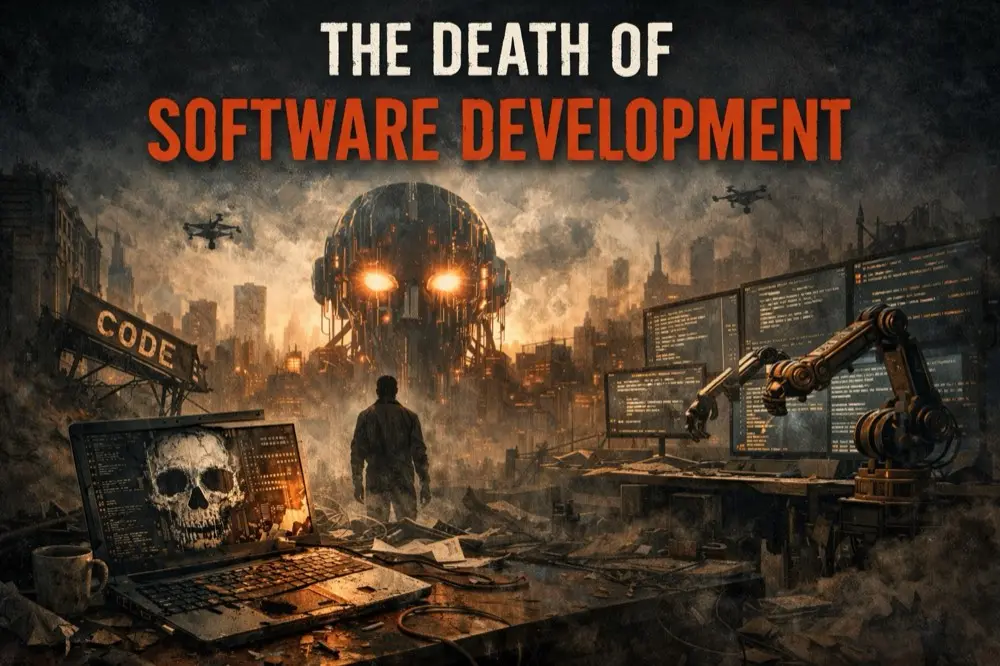
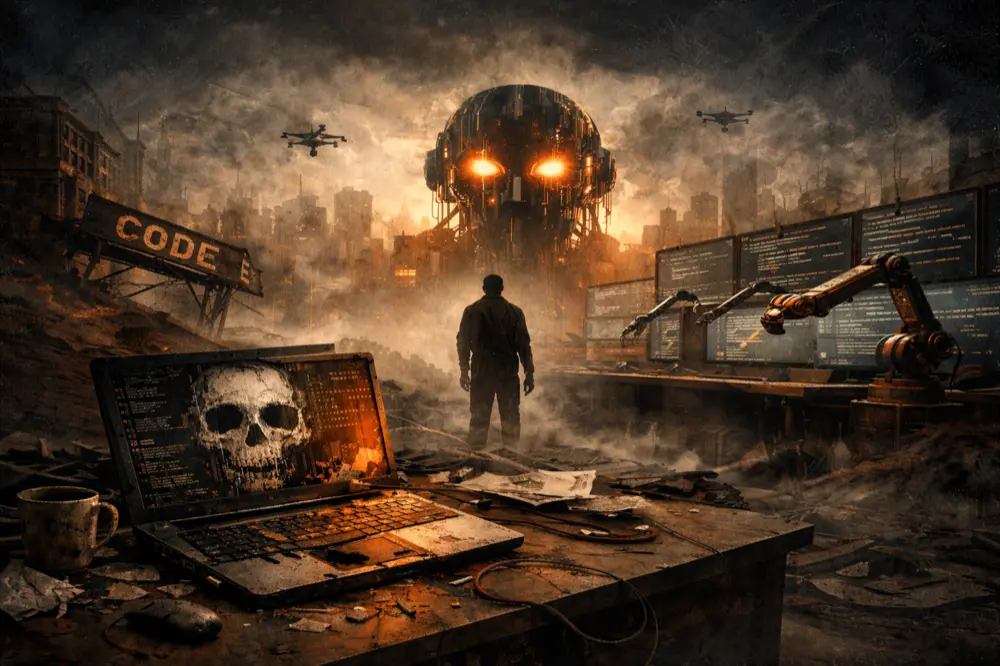
Add OG image generation for social sharing
- Add sharp dependency for image processing
- Create OG image generator using hero image + title overlay
- Add static endpoint to generate OG images at build time
- Add OG and Twitter meta tags to Layout
- Update blog post page to pass OG image URL
- Replace hero image with new optimized version (70KB)

diff --git a/src/utils/og-image.ts b/src/utils/og-image.ts
@@ -1,0 +1,137 @@
+import sharp from 'sharp';
+import { readFile } from 'fs/promises';
+import { join } from 'path';
+
+const OG_WIDTH = 1200;
+const OG_HEIGHT = 630;
+
+function createTextOverlay(title: string): Buffer {
+  // Escape HTML entities
+  const escapedTitle = title
+    .replace(/&/g, '&amp;')
+    .replace(/</g, '&lt;')
+    .replace(/>/g, '&gt;')
+    .replace(/"/g, '&quot;');
+
+  // Calculate font size based on title length
+  let fontSize = 64;
+  if (title.length > 50) fontSize = 48;
+  if (title.length > 80) fontSize = 40;
+
+  const svg = `
+    <svg width="${OG_WIDTH}" height="${OG_HEIGHT}" xmlns="http://www.w3.org/2000/svg">
+      <defs>
+        <linearGradient id="gradient" x1="0%" y1="0%" x2="0%" y2="100%">
+          <stop offset="0%" style="stop-color:rgba(0,0,0,0);stop-opacity:0" />
+          <stop offset="50%" style="stop-color:rgba(0,0,0,0.3);stop-opacity:1" />
+          <stop offset="100%" style="stop-color:rgba(0,0,0,0.8);stop-opacity:1" />
+        </linearGradient>
+      </defs>
+      <rect width="100%" height="100%" fill="url(#gradient)"/>
+      <text
+        x="60"
+        y="${OG_HEIGHT - 80}"
+        font-family="system-ui, -apple-system, BlinkMacSystemFont, 'Segoe UI', Roboto, sans-serif"
+        font-size="${fontSize}"
+        font-weight="bold"
+        fill="white"
+        text-anchor="start"
+      >
+        ${wrapText(escapedTitle, fontSize)}
+      </text>
+    </svg>
+  `;
+
+  return Buffer.from(svg);
+}
+
+function wrapText(text: string, fontSize: number): string {
+  const maxCharsPerLine = Math.floor((OG_WIDTH - 120) / (fontSize * 0.55));
+  const words = text.split(' ');
+  const lines: string[] = [];
+  let currentLine = '';
+
+  for (const word of words) {
+    if ((currentLine + ' ' + word).trim().length <= maxCharsPerLine) {
+      currentLine = (currentLine + ' ' + word).trim();
+    } else {
+      if (currentLine) lines.push(currentLine);
+      currentLine = word;
+    }
+  }
+  if (currentLine) lines.push(currentLine);
+
+  // Limit to 3 lines max
+  const displayLines = lines.slice(0, 3);
+  if (lines.length > 3) {
+    displayLines[2] = displayLines[2].slice(0, -3) + '...';
+  }
+
+  // Create tspan elements for each line, positioned from bottom up
+  const lineHeight = fontSize * 1.2;
+  const startY = 0 - (displayLines.length - 1) * lineHeight;
+
+  return displayLines
+    .map((line, i) => `<tspan x="60" dy="${i === 0 ? startY : lineHeight}">${line}</tspan>`)
+    .join('');
+}
+
+function createFallbackBackground(): Buffer {
+  const svg = `
+    <svg width="${OG_WIDTH}" height="${OG_HEIGHT}" xmlns="http://www.w3.org/2000/svg">
+      <defs>
+        <linearGradient id="bg" x1="0%" y1="0%" x2="100%" y2="100%">
+          <stop offset="0%" style="stop-color:#071b3a"/>
+          <stop offset="100%" style="stop-color:#0b3b7a"/>
+        </linearGradient>
+      </defs>
+      <rect width="100%" height="100%" fill="url(#bg)"/>
+    </svg>
+  `;
+
+  return Buffer.from(svg);
+}
+
+export async function generateOgImage(
+  title: string,
+  heroImagePath?: string
+): Promise<Buffer> {
+  let baseImage: sharp.Sharp;
+
+  if (heroImagePath) {
+    // Load hero image from public folder
+    const imagePath = join(process.cwd(), 'public', heroImagePath);
+    try {
+      const imageBuffer = await readFile(imagePath);
+      baseImage = sharp(imageBuffer)
+        .resize(OG_WIDTH, OG_HEIGHT, {
+          fit: 'cover',
+          position: 'center',
+        });
+    } catch {
+      // Fallback to gradient if image can't be loaded
+      baseImage = sharp(createFallbackBackground());
+    }
+  } else {
+    // Use gradient background for posts without hero image
+    baseImage = sharp(createFallbackBackground());
+  }
+
+  // Composite the text overlay
+  const textOverlay = createTextOverlay(title);
+
+  const result = await baseImage
+    .composite([
+      {
+        input: textOverlay,
+        top: 0,
+        left: 0,
+      },
+    ])
+    .jpeg({
+      quality: 80,
+    })
+    .toBuffer();
+
+  return result;
+}

diff --git a/src/pages/og/[...slug].jpg.ts b/src/pages/og/[...slug].jpg.ts
@@ -1,0 +1,29 @@
+import type { APIRoute, GetStaticPaths } from 'astro';
+import { getCollection } from 'astro:content';
+import { generateOgImage } from '../../utils/og-image';
+
+export const getStaticPaths: GetStaticPaths = async () => {
+  const posts = await getCollection('posts');
+  return posts
+    .filter((post) => !post.data.draft)
+    .map((post) => ({
+      params: { slug: post.slug },
+      props: {
+        title: post.data.title,
+        heroImage: post.data.heroImage,
+      },
+    }));
+};
+
+export const GET: APIRoute = async ({ props }) => {
+  const { title, heroImage } = props as { title: string; heroImage?: string };
+
+  const imageBuffer = await generateOgImage(title, heroImage);
+
+  return new Response(imageBuffer, {
+    headers: {
+      'Content-Type': 'image/jpeg',
+      'Cache-Control': 'public, max-age=31536000, immutable',
+    },
+  });
+};
